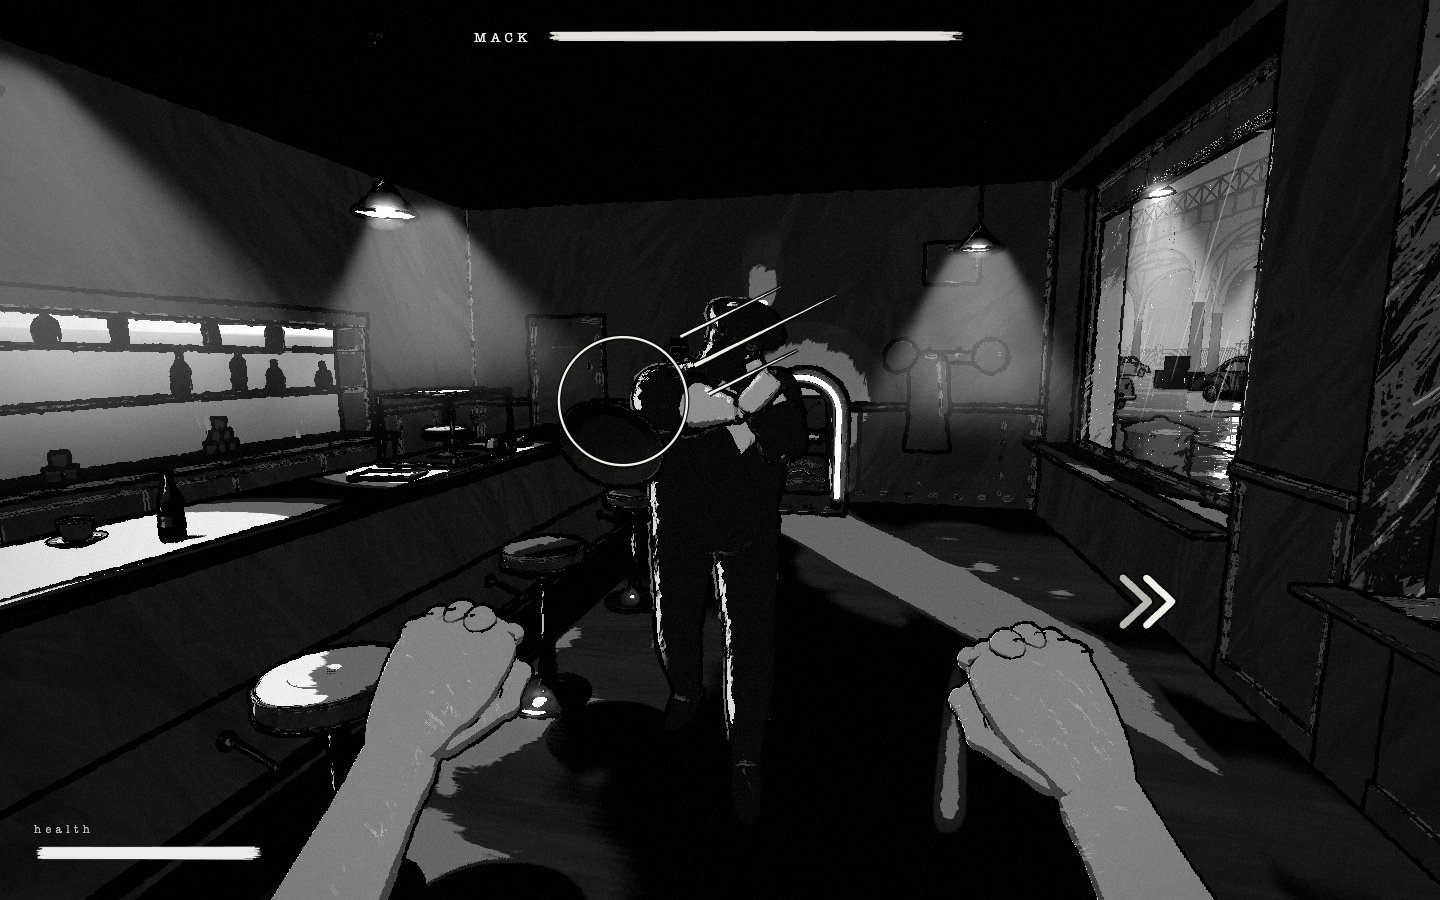
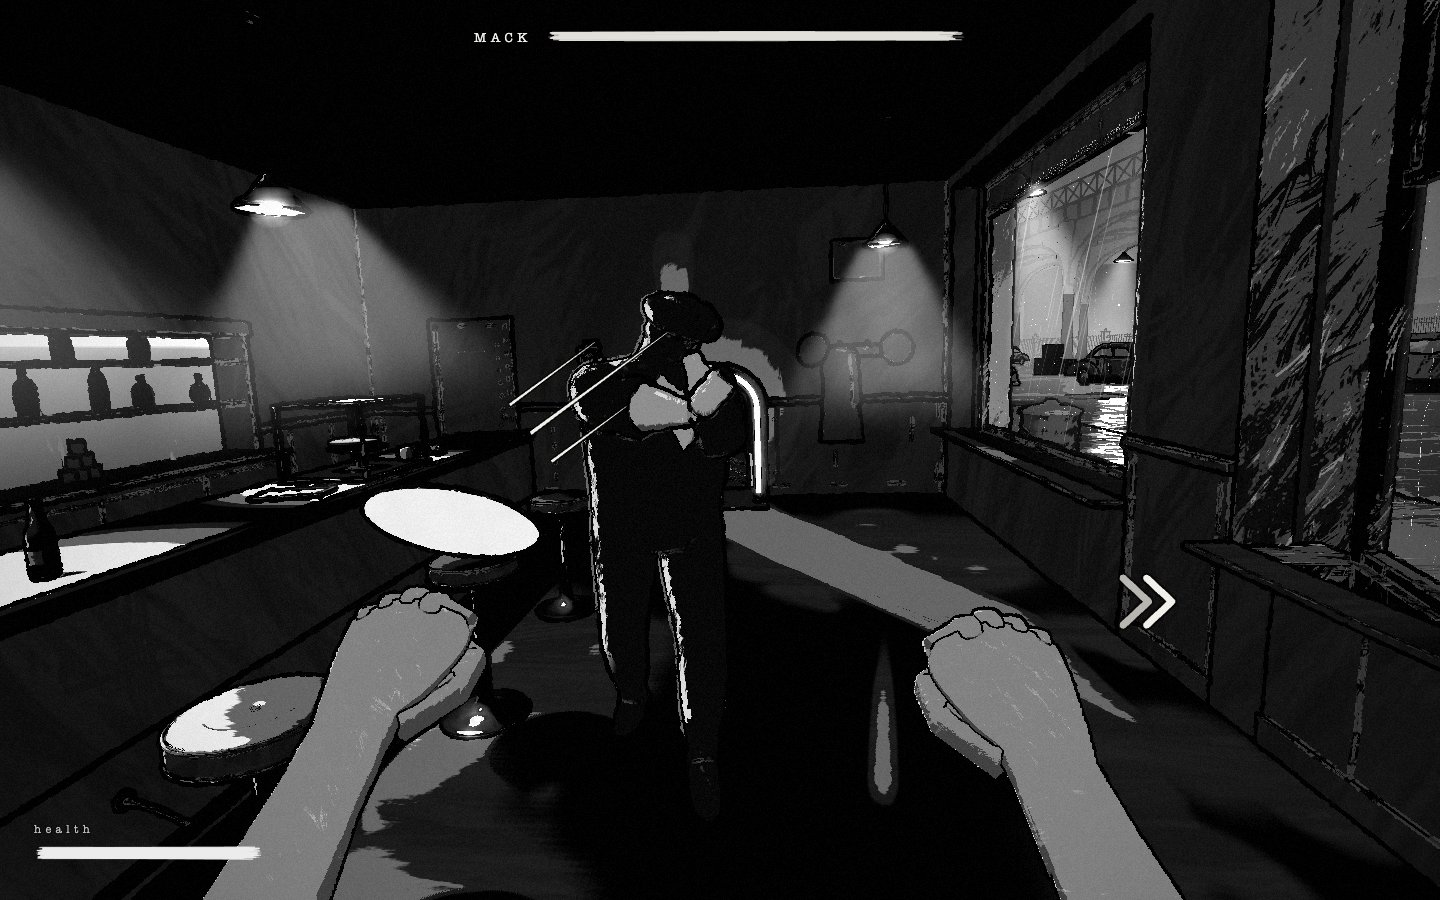
R2-H fight: the plate comes up white over the throw's tell (nothing pops at the release), the play waits for the chapter card, FIGHT.md says the round 2 changes

diff --git a/src/game/Brawl.js b/src/game/Brawl.js
@@ -1105,6 +1105,7 @@ export class Brawl {
       case 'reel': this.stepReel(dt); break;
     }
     this.finishCard();
+    this.stepThrownLight(dt);
     steer(this, dt);
     this.keepInRoom();
     this.drawGuard();
@@ -1449,7 +1450,7 @@ export class Brawl {
     const hd = Math.hypot(to.x - from.x, to.z - from.z), sp = 12.5, tt = Math.max(0.12, hd / sp), g = 9.8;
     const v = V((to.x - from.x) / tt, (to.y - from.y + 0.5 * g * tt * tt) / tt, (to.z - from.z) / tt);
     G.stage.scene.add(o); o.position.copy(from); o.updateMatrixWorld(true);
-    this.lightThing(o, true);   // [R2-H] up light in the air: china catches the eye
+    this.lightThing(o, true); him.lightK = 0;   // [R2-H] up light in the air (it came up over the tell): china catches the eye
     this.sfx('b8throw', from, { k: 1 });
     const lane = V(to.x - from.x, 0, to.z - from.z).normalize();
     // ([B8] its middle and its size, for the rim drawn round it on the frame)
@@ -1512,28 +1513,45 @@ export class Brawl {
       this.flying.splice(i, 1);
     }
   }
-  // [R2-H] his thrown china is drawn light in the air: a dark plate against
-  // the dark room at five metres was not seen, and the ring drawn round it
-  // to find it was loud. Its meshes swap to unlit paper-white (as the glass
-  // ticks are) and the ink outlines it; put back when it bursts or falls.
-  lightThing(o, on) {
+  // [R2-H] his thrown china is drawn light: a dark plate against the dark
+  // room at five metres was not seen, and the ring drawn round it to find it
+  // was loud. Its materials are cloned (the shared china stays as it was) and
+  // lifted by k (0 .. 1): an emissive and a lighter albedo, so the ink prints
+  // it paper-white with its rim. It comes up over the tell, in his hand (the
+  // plate catching the light is the tell's own mark: nothing pops at the
+  // release) and goes back when it bursts, falls or he is struck off it.
+  lightThing(o, on, k = 1) {
     if (!o) return;
     o.traverse((m) => {
       if (!m.isMesh || !m.material || Array.isArray(m.material)) return;
       if (on) {
-        const M = m.material;
-        if (m.userData.r2hMat || M.transparent || !/^prop_china/.test(M.name || '')) return;
-        m.userData.r2hMat = M;
-        const c = M.clone();
-        c.emissive = new THREE.Color(1, 1, 1).multiplyScalar(THROWN_LIFT);
-        c.color.multiplyScalar(2.2);
-        m.material = c;
+        let c = m.userData.r2hMat && m.material;
+        if (!c) {
+          const M = m.material;
+          if (M.transparent || !/^prop_china/.test(M.name || '')) return;
+          m.userData.r2hMat = M;
+          c = M.clone();
+          c.userData.r2hBase = M.color.clone();
+          c.emissive = new THREE.Color(0, 0, 0);
+          m.material = c;
+        }
+        c.emissive.setScalar(THROWN_LIFT * k);
+        c.color.copy(c.userData.r2hBase).multiplyScalar(1 + 1.2 * k);
       } else if (m.userData.r2hMat) {
         m.material.dispose && m.material.dispose();
         m.material = m.userData.r2hMat;
         delete m.userData.r2hMat;
       }
     });
+  }
+  // (each step: the plate in his hand comes up over the throw's tell; one he
+  // is struck off goes back to china)
+  stepThrownLight(dt) {
+    const him = this.him, o = him.prop;
+    if (o && him.state === 'attack' && him.clip === 'br_throw') {
+      him.lightK = Math.min(1, (him.lightK || 0) + dt / 0.4);
+      this.lightThing(o, true, him.lightK);
+    } else if (o && him.lightK) { him.lightK = 0; this.lightThing(o, false); }
   }
   // [B8] (second pass) his thrown thing on the frame: speed lines back
   // along the way it came and a white rim - a dark plate against the dark

diff --git a/src/debug/shots/B8_fight.js b/src/debug/shots/B8_fight.js
@@ -77,7 +77,7 @@ function stageDuel(stage, camera, controller, game) {
     // (him with the thing in his hand, 2.6 m off for a throw, 1.5 for a swing)
     const kind = what === 'throw' ? (q.get('kind') || 'plate') : (q.get('kind') || 'stool');
     const it = B.room.hisItem(kind, c.pos) || B.room.items().find((x) => x.kind === kind);
-    const E = game.eye, d = what === 'throw' ? 2.6 : 1.5;
+    const E = game.eye, d = q.get('d') ? parseFloat(q.get('d')) : what === 'throw' ? 2.6 : 1.5;   // ([R2-H] &d= the distance: a throw from close up)
     const P = controller.pos, dl = Math.hypot(c.pos.x - P.x, c.pos.z - P.z) || 1, fx = (c.pos.x - P.x) / dl, fz = (c.pos.z - P.z) / dl;
     c.place({ x: P.x + fx * d, z: P.z + fz * d }, Math.atan2(-fx, -fz));
     if (it) {

diff --git a/docs/story/FIGHT.md b/docs/story/FIGHT.md
@@ -38,6 +38,10 @@ solved onto the seat's rim while it moves) and sends it skidding into the
 counter's foot, where it goes over and lies (a thing in the room from now
 on, in every later beat and retry); my fists come up; he gives ground and
 squares up. The lesson's first card follows. A retry never plays it again.
+Entered from the title (a chapter chosen, a CONTINUE) the chapter card is
+up: the room comes up under it, his line said, and the move begins once the
+card has gone (round 1 drew the numeral II over him as he rose). A cut from
+the diner has no card and waits for nothing.
 `scenes/fight/start.js`; `?scene=fight&beat=start&t=<s>` scrubs it.
 
 ## 2. Controls
@@ -163,9 +167,14 @@ the counter's edge and used by the neck.
   The thing flies on a real arc (12.5 m/s) along a lane aimed where I stood
   when the tell began; a hop to either side leaves it; it bursts on
   whatever is behind me (the room, the floor) and its pieces come to rest.
-  In the air it is inked on the frame: three speed lines trailing back
-  toward his hand and a paper-white rim round it (a dark plate against the
-  dark room at five metres was not seen at all).
+  In the air it is inked on the frame with three speed lines trailing back
+  along the way it comes, and nothing else: the ring and the white rim round
+  it were loud (round 2). The plate itself is lighter: a plate or a mug in
+  his hand comes up paper-white over the tell (a clone of its china, its
+  albedo and an emissive lifted with the tell's 0.4 s, so nothing pops at the
+  release), stays white in the air, and goes back to china when it bursts,
+  falls or he is struck off it (a dark plate against the dark room at five
+  metres was not seen at all). A bottle stays dark: the lines carry it.
 - **A swing with a thing** follows the rule for fists (step away from the
   hand that swings, or back), with no indicator, and reaches further (a
   stool 2.05 m).
@@ -232,6 +241,15 @@ slow motion, out through the glass, onto his back on the pavement. Standing
 in his way, I am shouldered out of it. If he cannot get to either window
 (held up three times, or 12 s) he comes round and fights on: a fight that
 cannot end is a bug.
+
+**The card at the window** (round 2). Nothing told a player that only a
+loaded punch (or a thing) ends it, and a player who mashes jabs a swaying
+man for ever. So when he stands at the window, 0.7 s after he gets there, a
+card low in the frame, in the lesson's hand: `OUT ON HIS FEET.   HOLD TO
+LOAD, THEN LET GO` (the mouse inked). It stays 6 s. It does not come for a
+player who has loaded a punch (level 2 or more, blocked or not) in the last
+30 s: he knows. If I go on jabbing the swaying man, six blows, it comes
+again for 4 s. It goes with him (the last blow, or his coming round).
 
 ## 10. One fight system, two rooms
 
